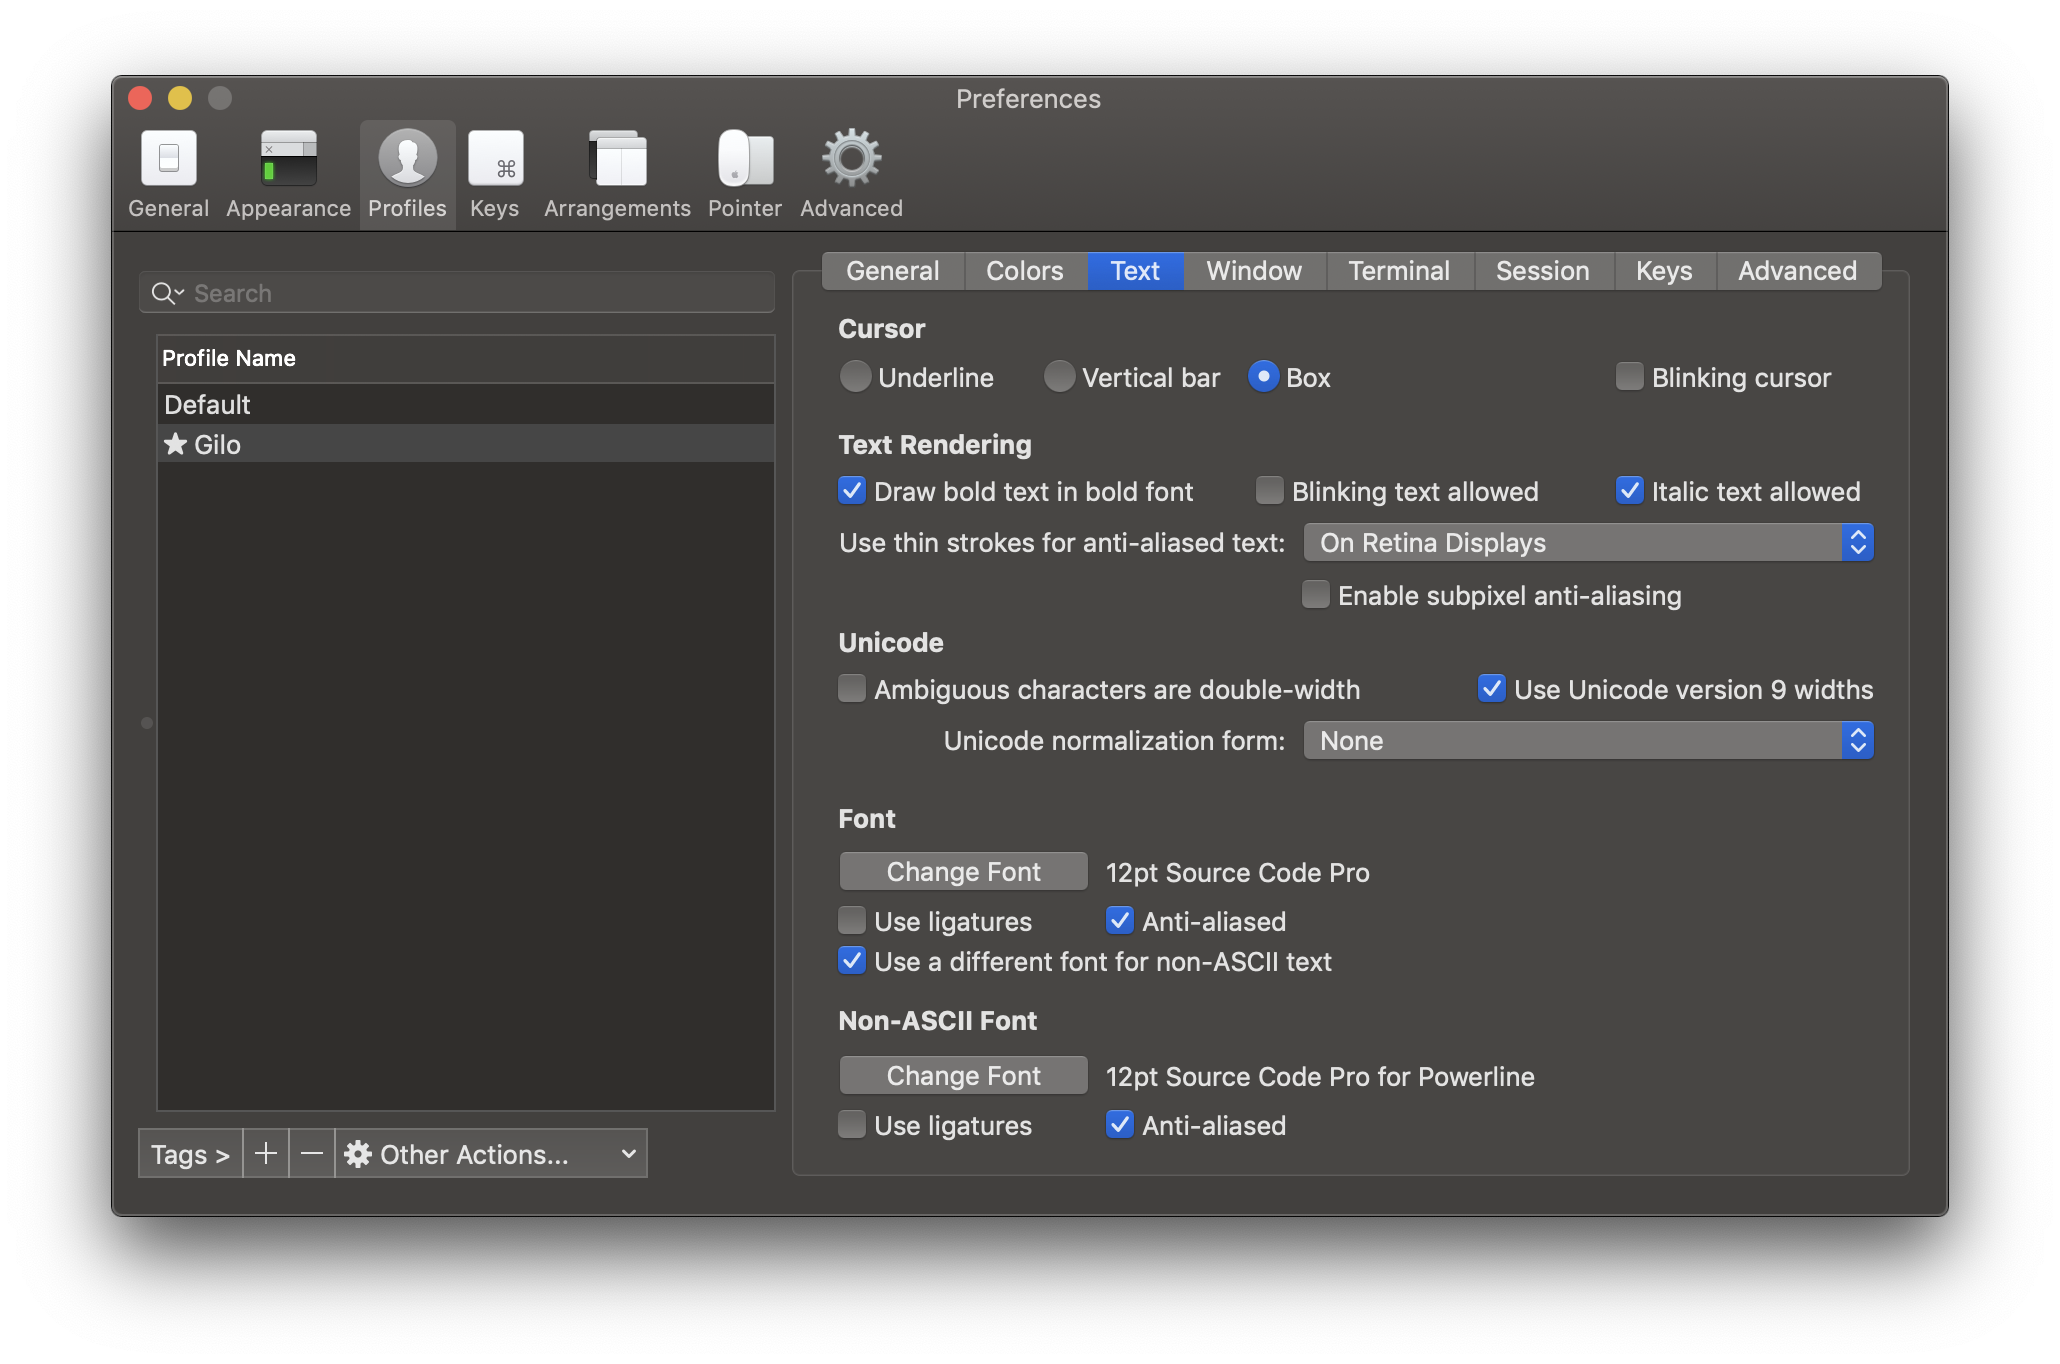
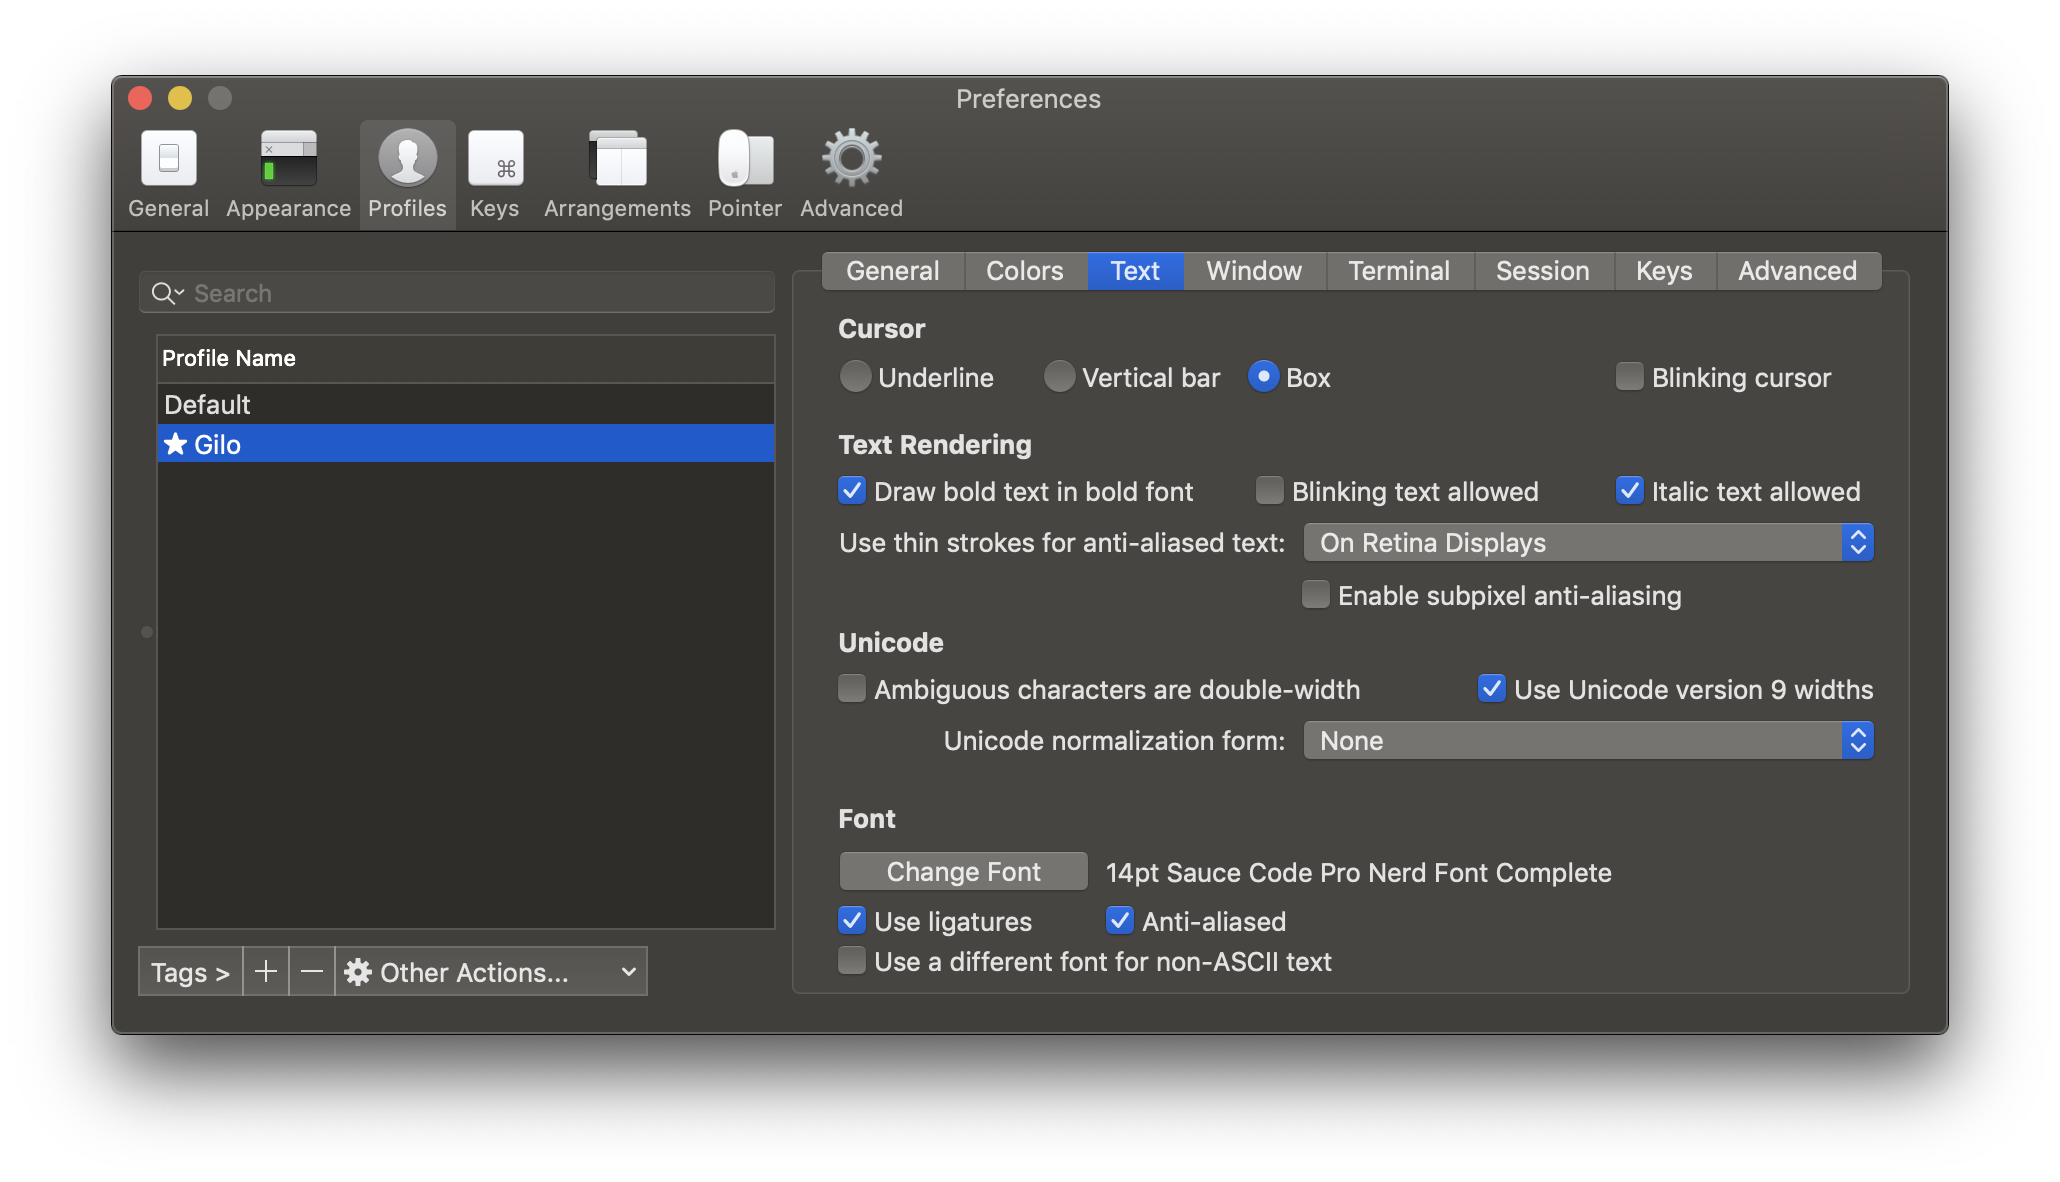
reorder sections

Changed region(s): [[0.0621, 0.0305, 0.9631, 0.9442], [0.0621, 0.2132, 0.3728, 0.3959]]

diff --git a/iterm2.rst b/iterm2.rst
@@ -17,6 +17,52 @@ Descarga la aplicación y arrastrala a la carpeta :file:`Applications`
 ⌘ /      resalta la posición del cursos
 ======  =========================================================
 
+
+Ventanas y Pestañas
+-------------------
+
+En `iTerm2 <http://www.iterm2.com/>`_ podemos configurar en que directorio se abriran las nuevas ventanas o pestañas. 
+
+.. image:: _static/working_directory.png
+   :alt: iTerm2 (Locale)
+   :width: 80%
+
+.. image:: _static/working_directory_tabs_windows.png
+   :alt: iTerm2 (Locale)
+   :width: 80%
+
+
+Tipo de letra
+-------------
+
+Source Code Pro
+~~~~~~~~~~~~~~~
+
+Intalamos el tipo de letra `Source Code Pro <https://github.com/adobe-fonts/source-code-pro>`_ que es usada por algunos temas que se instalarán más adelante. Este tipo de letra tambien se usa en :ref:`sublimetext`
+
+Despues de descargar el archivo seguimos las instrucciones generales para instalar tipos de letras en MacOS `How to install and remove fonts on your Mac <https://support.apple.com/en-us/HT201749>`_
+
+Descomprimimos el archivo que descargamos y en el directorio :file:`OTF` damos doble click a la fuente que queremos instalar.
+
+.. image:: _static/sourcecodepro.png
+   :alt: Source Code Pro Font
+   :width: 80%
+
+Nerd Fonts
+~~~~~~~~~~
+
+`Nerd Fonts <http://nerdfonts.com>`_
+
+Descargamos el tipo de letra `SourceCodePro` y en el directorio :file:`SourceCodePro` damos doble click al archivo que queremos instalar.
+
+
+En la iTerm2 :menuselection:`Preferences --> Profiles --> Text` seleccionamos el tipo de letra.
+
+.. image:: _static/iterm2font.png
+   :alt: Font for iTerm2
+   :width: 80%
+
+
 Python, Plone
 -------------
 
@@ -44,28 +90,13 @@ O en :menuselection:`Preferencias --> Perfil --> Terminal`  solicitar que no se 
    :width: 80%
 
 
-Ventanas y Pestañas
--------------------
-
-En `iTerm2 <http://www.iterm2.com/>`_ podemos configurar en que directorio se abriran las nuevas ventanas o pestañas. 
-
-
-.. image:: _static/working_directory.png
-   :alt: iTerm2 (Locale)
-   :width: 80%
-
-
-.. image:: _static/working_directory_tabs_windows.png
-   :alt: iTerm2 (Locale)
-   :width: 80%
-
 Módificaciones al PATH
 ----------------------
 
 gettetx
 ~~~~~~~
 
-Para agregar :command:`gettext` al path modificamos el archivo :file:`.zshrc`
+Para agregar :command:`gettext` al path modificamos el archivo :file:`.bash_profile` o el archivo :file:`.zshrc` 
 
 .. code-block:: shell
 
@@ -113,37 +144,6 @@ Usamos la versión Zsh de Homebrew
 
    En macOS Mojave no cambia y manda el siguiente mensaje: ``chsh: /usr/local/bin/zsh: non-standard shell``
 
-Fuentes
--------
-
-Source Code Pro
-~~~~~~~~~~~~~~~
-
-Intalamos la fuente `Source Code Pro <https://github.com/adobe-fonts/source-code-pro>`_ que es usada por algunos temas que se instalarán más adelante. Esta fuente tambien se usa en :ref:`sublimetext`
-
-Despues de descargar el archivo seguimos las instrucciones generales en MacOS `How to install and remove fonts on your Mac <https://support.apple.com/en-us/HT201749>`_
-
-Descomprimimos el archivo que descargamos y en el directorio :file:`OTF` y damos doble click a la fuente que queremos instalar.
-
-
-.. image:: _static/sourcecodepro.png
-   :alt: Source Code Pro Font
-   :width: 80%
-
-Nerd Fonts
-~~~~~~~~~~
-
-`Nerd Fonts <http://nerdfonts.com>`_
-
-Descargamos las fuentes y en el directorio :file:`SourceCodePro` damos doble click a la fuente que queremos instalar.
-
-
-En la iTerm2 :menuselection:`Preferences --> Profiles --> Text` seleccionamos la fuente normal y la fuente para caractres non-ascii.
-
-
-.. image:: _static/iterm2font.png
-   :alt: Font for iTerm2
-   :width: 80%
 
 
 oh-my-zsh
